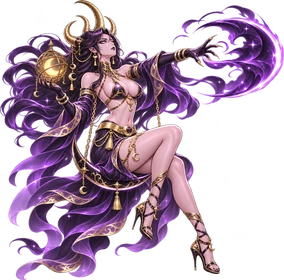
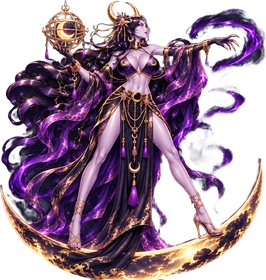
두억시니: 원본 달빛 극화체 교체, 각성 「검은 달 쌍고리」
Claude-Session: https://claude.ai/code/session_01X3WCR5Skc58i6ujNZho15h

diff --git a/game/geumeum/dokkaebi-shooter.html b/game/geumeum/dokkaebi-shooter.html
@@ -879,7 +879,7 @@ const FONT = '"Black Han Sans","Apple SD Gothic Neo","Malgun Gothic",sans-serif'
 const IMG = {};
 for (const n of ['hp0', 'hp1', 'hp2n', 'hp2s', 'hc2n', 'hc2s', 'mh0', 'mh1', 'mh2', 'mh3', 'mh4', 'mh5', 'mh6', 'mh7', 'mh8', 'mh9', 'mw_wisp', 'mw_kite', 'mw_drum', 'mw_jar', 'mw_lantern', 'mw_dasher', 'mw_carp', 'mw_fox', 'f3_wisp', 'f3_kite', 'f3_dasher', 'f4_wisp', 'f4_kite', 'f4_dasher', 'f5_wisp', 'f5_kite', 'f5_dasher', 'f6_wisp', 'f6_kite', 'f6_dasher', 'f7_wisp', 'f7_kite', 'f7_dasher', 'f8_wisp', 'f8_kite', 'f8_dasher', 'f9_wisp', 'f9_kite', 'f9_dasher', 'wisp', 'kite', 'drum', 'jar', 'lantern', 'dasher', 'bz0c', 'bz0d', 'bz1a', 'bz8b', 'fg0', 'mini0a', 'mini0b', 'mini0c', 'mid0a', 'mid0b', 'p3', 'cut3x', 'p4', 'cut4x', 'carp', 'mini1a', 'mini1b', 'mini1c', 'mid1a', 'mid1b', 'bz1b', 'fg1', 'ironfx', 'p5', 'cut5x', 'fox', 'mini2a', 'mini2c', 'mid2a', 'boss3', 'bz2b', 'fg3', 'ch3', 'ch5', 'ch6', 'ch7', 'ch8', 'ch9', 'ch10', 'ch11', 'ch12', 'p6','cut6x','p7b','cut7x','p8b','cut8x','p9b','cut9x','p10','cut10x','p11b','cut11x','p12','cut12x','zk3','mini3a','mini3b','mini3c','mid3a','mid3b','bossH3','bz3b','zk4','mini4a','mini4b','mini4c','mid4a','mid4b','bossH4','bz4b','zk5','mini5a','mini5b','mini5c','mid5a','mid5b','bossH5','bz5b','zk6','mini6a','mini6b','mini6c','mid6a','mid6b','bossH6','bz6b','zk7','mini7a','mini7b','mini7c','mid7a','mid7b','bossH7','bz7b','zk8','mini8a','mini8b','mini8c','mid8a','mid8b','bossH8','zk9','mini9a','mini9b','mini9c','mid9a','mid9b','bossH9','bz9b', 'hc0x', 'hp1_o0', 'hc1_o0', 'hc1w', 'forgeAnvil', 'forgeHammer', 'chestC', 'chestG', 'chestE', 'tornado', 'arrowfx', 'hammerfx', 'talisman']) { const im = new Image(); im.src = 'assets/' + n + '.webp'; IMG[n] = im; }
 { const im = new Image(); im.src = 'assets/ch12m.webp'; IMG.ch12 = im; }
-for (const n of ['p13', 'p14', 'p15', 'p16', 'p17', 'p18', 'p19', 'p20', 'p21', 'p22', 'aw0p', 'aw1p', 'aw2p', 'aw1', 'aw2', 'aw5', 'aw5p', 'aw6', 'aw6p', 'aw7', 'aw7p', 'aw12', 'aw12p', 'aw14', 'aw14p', 'aw15', 'aw15p', 'aw17', 'aw17p', 'aw18', 'aw18p', 'aw21', 'aw21p', 'aw13', 'aw13p', 'rp_book', 'aw16', 'aw16p', 'aw19', 'aw19p', 'aw20', 'aw20p', 'cy_m0', 'cy_m1', 'cy_m2', 'cy_m3', 'aw22', 'aw22p', 'aw3', 'aw3p', 'aw4', 'aw4p', 'aw8', 'aw8p', 'aw9', 'aw9p', 'aw10', 'aw10p', 'dl_sword']) { const im = new Image(); im.src = 'assets/' + n + '.webp'; IMG[n] = im; } // 기획 15·17 새 그림도 처음부터 불러 둠
+for (const n of ['p13', 'p14', 'p15', 'p16', 'p17', 'p18', 'p19', 'p20', 'p21', 'p22', 'aw0p', 'aw1p', 'aw2p', 'aw1', 'aw2', 'aw5', 'aw5p', 'aw6', 'aw6p', 'aw7', 'aw7p', 'aw12', 'aw12p', 'aw14', 'aw14p', 'aw15', 'aw15p', 'aw17', 'aw17p', 'aw18', 'aw18p', 'aw21', 'aw21p', 'aw13', 'aw13p', 'rp_book', 'aw16', 'aw16p', 'aw19', 'aw19p', 'aw20', 'aw20p', 'cy_m0', 'cy_m1', 'cy_m2', 'cy_m3', 'aw22', 'aw22p', 'aw3', 'aw3p', 'aw4', 'aw4p', 'aw8', 'aw8p', 'aw9', 'aw9p', 'aw10', 'aw10p', 'aw11', 'aw11p', 'dl_sword']) { const im = new Image(); im.src = 'assets/' + n + '.webp'; IMG[n] = im; } // 기획 15·17 새 그림도 처음부터 불러 둠
 { const im = new Image(); im.src = 'assets/tower10.webp'; IMG.tower10 = im; } // 층 시작 때 보여 주는 탑 그림 // 여왕의 기: 달 구슬(새 그림)
 for (const n of ['bg0', 'bg1', 'bg2', 'bg3', 'bgS4', 'bgS5', 'bgS6', 'bgS7', 'bgS8', 'bgS10', 'bg0h', 'bg1h', 'bg2h', 'bg3h', 'bgS4h', 'bgS5h', 'bgS6h', 'bgS7h', 'bgS8h', 'bgS10h']) { const im = new Image(); im.src = 'assets/' + n + '.jpg'; IMG[n] = im; }
 const ok = im => im && im.complete && im.naturalWidth > 0;
@@ -3428,7 +3428,7 @@ function drawElite() { for (const e of enemies) { if (!e.elite || e.dead || e.x 
   else { $('btnHome').textContent = '돌아가기'; if (p === 2 && !G.endless && G.floor.st.length === 3) { const sum = G.floor.st.reduce((x, y) => x + (y || 0), 0); $('resName').textContent = (G.stage + 1) + '층 돌파' + (G.diff ? ' ' + DN[G.diff] : ''); $('resText').innerHTML = '이번 층 별 <b>' + sum + ' / 9</b> · 이번 층 골드 <b class="gold">+' + G.floor.gold.toLocaleString() + '</b> · 가진 골드 <b class="gold">' + SAVE.gold.toLocaleString() + '</b>'; } } }; }
 $('btnRestYk').addEventListener('click', () => openYk());
 /* ---------- 기획 16-4: 각성 연출 — 멈춤 → 각성 일러스트 전신 → 얼굴·무기 쪽으로 천천히 확대 → 대사 띠 → 각성 8초 ---------- */
-const AWK = { dur: 1.2, dark: 0.15, inT: 0.2, zoom: 1.0, zoomCh: {}, /* 기획 17: 확대 없앰, 화면 가득 1.2초 */ img: { 0: 'aw0', 1: 'aw1', 2: 'aw2', 3: 'aw3', 4: 'aw4', 5: 'aw5', 6: 'aw6', 7: 'aw7', 8: 'aw8', 9: 'aw9', 10: 'aw10', 12: 'aw12', 13: 'aw13', 14: 'aw14', 15: 'aw15', 16: 'aw16', 17: 'aw17', 18: 'aw18', 19: 'aw19', 20: 'aw20', 21: 'aw21', 22: 'aw22' },
+const AWK = { dur: 1.2, dark: 0.15, inT: 0.2, zoom: 1.0, zoomCh: {}, /* 기획 17: 확대 없앰, 화면 가득 1.2초 */ img: { 0: 'aw0', 1: 'aw1', 2: 'aw2', 3: 'aw3', 4: 'aw4', 5: 'aw5', 6: 'aw6', 7: 'aw7', 8: 'aw8', 9: 'aw9', 10: 'aw10', 11: 'aw11', 12: 'aw12', 13: 'aw13', 14: 'aw14', 15: 'aw15', 16: 'aw16', 17: 'aw17', 18: 'aw18', 19: 'aw19', 20: 'aw20', 21: 'aw21', 22: 'aw22' },
   focus: { 0: [0.62, 0.18], 1: [0.76, 0.24], 2: [0.62, 0.13] }, // 확대 중심(그림 비율): 얼굴과 무기·손의 빛 사이. 15세 기준 — 몸 쪽으로는 확대하지 않음
   line: ['바람아, 달빛을 실어 와라!', '활은 접어 둘게. 이제 베러 간다!', '은하수의 창이여, 깨어나라!', '탈 속 도깨비불이 춤춘다!', '쇠도 먹고 달도 먹는다!', '아홉 꼬리에 달빛이 깃든다!', '장승의 이름으로 막아 서라!', '눈보라야, 모두 얼어붙어라!', '천 년 묵은 비늘이 깨어난다!', '용궁의 물결이여, 일어나라!', '쇠망치에 달을 벼린다!', '어둠이 나의 그림자다!', '뚝딱! 달빛이 쏟아진다!'] };
 for (const k of Object.values(AWK.img)) needImg(k);
@@ -3592,7 +3592,7 @@ function drawBossCut() { const b = G.boss; const U = b && b.ult; if (U && U.t < 
 { const a = drawWpFx; drawWpFx = function () { drawBsk17(); a(); }; }
 { const a = offerHero; offerHero = function () { const r = a(); if (r) { const L = BOSSK[G.stage]; if (L) $('offerText').textContent += ' — 이제 「' + L.slice(0, 3).map(x => x[1]).join('·') + '」는 내 것!'; } return r; }; }
 /* ---------- 기획 17-1·2: 각성 모습·움직임(잔상 3겹·달빛 고리·색 덧칠·꼬리) + 각성 전용 기본 공격·각성판 스킬 + 끝날 때 0.4초 ---------- */
-const AWK2 = { spr: { 0: 'aw0p', 1: 'aw1p', 2: 'aw2p', 3: 'aw3p', 4: 'aw4p', 5: 'aw5p', 6: 'aw6p', 7: 'aw7p', 8: 'aw8p', 9: 'aw9p', 10: 'aw10p', 12: 'aw12p', 13: 'aw13p', 14: 'aw14p', 15: 'aw15p', 16: 'aw16p', 17: 'aw17p', 18: 'aw18p', 19: 'aw19p', 20: 'aw20p', 21: 'aw21p', 22: 'aw22p' }, col: ['#9fffe0', '#ffd76a', '#cfe8ff'], trail: [5, 10, 15], endSec: 0.4, shotK: 1.3, skOff: [-28, 28], skK: 0.75 }; // spr: 각성 게임 캐릭터 그림(들어오면 { 0: 'aw0p', ... })
+const AWK2 = { spr: { 0: 'aw0p', 1: 'aw1p', 2: 'aw2p', 3: 'aw3p', 4: 'aw4p', 5: 'aw5p', 6: 'aw6p', 7: 'aw7p', 8: 'aw8p', 9: 'aw9p', 10: 'aw10p', 11: 'aw11p', 12: 'aw12p', 13: 'aw13p', 14: 'aw14p', 15: 'aw15p', 16: 'aw16p', 17: 'aw17p', 18: 'aw18p', 19: 'aw19p', 20: 'aw20p', 21: 'aw21p', 22: 'aw22p' }, col: ['#9fffe0', '#ffd76a', '#cfe8ff'], trail: [5, 10, 15], endSec: 0.4, shotK: 1.3, skOff: [-28, 28], skK: 0.75 }; // spr: 각성 게임 캐릭터 그림(들어오면 { 0: 'aw0p', ... })
 for (const k of Object.values(AWK2.spr)) needImg(k);
 const awCol = ch => AWK2.col[ch] || CH[ch].spark || CH[ch].robe;
 function drawAwakeP() { const ch = P.ch, sc = FUN2.awakeScale, img = (AWK2.spr[ch] && ok(IMG[AWK2.spr[ch]])) ? AWK2.spr[ch] : look(ch).img, h0 = CH[ch].h * SZ.p * sc, imw = IMG[img], h = ok(imw) && imw.naturalWidth > imw.naturalHeight * 1.05 ? h0 * 1.05 * imw.naturalHeight / imw.naturalWidth : h0, col = awCol(ch), L = G.awTrail || []; // 가로로 긴 그림은 폭 기준으로 줄여 다른 캐릭터와 크기를 맞춤
@@ -3734,7 +3734,7 @@ function dlMark(e) { const D = G.dl; if (!D) return; if (e.st) delete e.st.mark;
 function dlEnd() { const D = G.dl; if (!D) return; const y = P.y; D.sw = []; fx2({ k: 'hline', y, d: 0.45, col: '#ff3a5a' }); G.shake = 0.5; G.flash = Math.max(G.flash, 0.3); banner('…다시, 활로.', '', 1);
   withSrc('awk', () => { for (const e of inFront(P.x, W + 20, y, 40)) hitEl(e, AWK_DL.finalArrow, 'mark', { pen: 1 }); for (const e of enemies) if (!e.dead && e.st && e.st.mark > 0) dlMark(e); }); tone(392, 0.4, 'triangle', 0.08, 200); }
 // 그리기: 칼바람(진홍 반달), 칼 회전, 돌진 잔상, 갈라지는 0.3초, 벨 때 앞으로 튀어나감
-{ const a = drawShot; drawShot = function (s) { if (s.snw) return drawSnw(s); if (s.jsw) return drawJsw(s); if (s.qcw) return drawQcw(s); if (s.bpw) return drawBpw(s); if (s.htw) return drawHtw(s); if (s.ubw) return drawUbw(s); if (s.upw) return drawUpw(s); if (s.jxw) return drawJxw(s); if (s.mpw) return drawMpw(s); if (s.ssw) return drawSsw(s); if (s.hbw) return drawHbw(s); if (s.rpw) return drawRpw(s); if (s.hgw) return drawHgw(s); if (s.sgw) return drawSgw(s); if (s.cyw) return drawCyw(s); if (s.krw) return drawKrw(s); if (s.tdw) return drawTdw(s); if (s.bgw) return drawBgw(s); if (s.imw) return drawImw(s); if (s.ywm) return drawYwm(s); if (s.sdw) return drawSdw(s); if (!s.dlw) return a(s); ctx.save(); ctx.translate(s.x, s.y); ctx.rotate(Math.atan2(s.vy, s.vx)); ctx.globalCompositeOperation = 'lighter'; ctx.strokeStyle = 'rgba(255,60,90,.9)'; ctx.lineWidth = 5; ctx.beginPath(); ctx.arc(-8, 0, 18, -1.2, 1.2); ctx.stroke(); ctx.strokeStyle = 'rgba(255,200,210,.9)'; ctx.lineWidth = 2; ctx.beginPath(); ctx.arc(-6, 0, 17, -1.0, 1.0); ctx.stroke(); ctx.restore(); }; }
+{ const a = drawShot; drawShot = function (s) { if (s.snw) return drawSnw(s); if (s.jsw) return drawJsw(s); if (s.qcw) return drawQcw(s); if (s.bpw) return drawBpw(s); if (s.htw) return drawHtw(s); if (s.ubw) return drawUbw(s); if (s.upw) return drawUpw(s); if (s.jxw) return drawJxw(s); if (s.mpw) return drawMpw(s); if (s.ssw) return drawSsw(s); if (s.hbw) return drawHbw(s); if (s.rpw) return drawRpw(s); if (s.hgw) return drawHgw(s); if (s.sgw) return drawSgw(s); if (s.cyw) return drawCyw(s); if (s.krw) return drawKrw(s); if (s.tdw) return drawTdw(s); if (s.bgw) return drawBgw(s); if (s.imw) return drawImw(s); if (s.ywm) return drawYwm(s); if (s.sdw) return drawSdw(s); if (s.dkw) return drawDkw(s); if (!s.dlw) return a(s); ctx.save(); ctx.translate(s.x, s.y); ctx.rotate(Math.atan2(s.vy, s.vx)); ctx.globalCompositeOperation = 'lighter'; ctx.strokeStyle = 'rgba(255,60,90,.9)'; ctx.lineWidth = 5; ctx.beginPath(); ctx.arc(-8, 0, 18, -1.2, 1.2); ctx.stroke(); ctx.strokeStyle = 'rgba(255,200,210,.9)'; ctx.lineWidth = 2; ctx.beginPath(); ctx.arc(-6, 0, 17, -1.0, 1.0); ctx.stroke(); ctx.restore(); }; }
 function drawDl() { const D = G.dl; if (!D || G.mode !== 'play') return; const im = IMG.dl_sword;
   for (const s of D.sw) { ctx.save(); ctx.translate(s.x, s.y); ctx.rotate(s.a); ctx.globalCompositeOperation = 'lighter'; glow('red', 0, 0, 30, 0.5); ctx.globalCompositeOperation = 'source-over'; if (ok(im)) ctx.drawImage(im, -36, -11.5, 72, 23); ctx.restore(); }
   const ds = D.dash; if (ds) { const tr = ds.trail; for (let i = 0; i < 3; i++) { const q = tr[Math.floor(tr.length * (i + 1) / 4)]; if (q) spr(AWK2.spr[1], q.x, q.y, CH[1].h * SZ.p * FUN2.awakeScale, { add: 1, alpha: 0.25 }); } if (!ds.scar && ds.t > AWK_DL.dashTime) { ctx.save(); ctx.strokeStyle = 'rgba(255,40,70,.8)'; ctx.lineWidth = 3; ctx.beginPath(); ctx.moveTo(ds.x0, ds.y - 10); ctx.lineTo(W, ds.y + 10); ctx.moveTo(ds.x0, ds.y + 10); ctx.lineTo(W, ds.y - 10); ctx.stroke(); ctx.restore(); } }
@@ -4290,6 +4290,30 @@ function drawSd() { const M = G.sd; if (!M || G.mode !== 'play') return; ctx.sav
   if (M.split > 0 && M.split < 0.3) { const k = 1 - M.split / 0.3; glow('fire', P.x + 20, P.y, 20 + 60 * k, 1 - k); }
   ctx.restore(); }
 { const a = drawWpFx; drawWpFx = function () { a(); drawSd(); }; }
+/* ---------- 두억시니 각성 「검은 달 쌍고리」 (기획 20 두억시니 행, 무기 낫→쌍고리로 변경) — 앞 고리칼에서 검은 초승달 관통(묶음)·가까운 탄 지움·어둠 걷기 돌진·끝 화면 어두워지며 그림자 베기 ---------- */
+const AWK_DK = { tip: [55, -48], gap: 0.3, sp: 580, dmg: 2.8, bindT: 0.4, eatR: 52, dashTime: 0.3, dashBack: 0.3, dashR: 44, dashDmg: 12, endN: 6, endDmg: 18, col: '#b070ff' };
+const dkOn = () => G.awake > 0 && P.ch === 11 && G.mode === 'play';
+{ const a = fire; fire = function () { const n0 = shots.length; a(); if (dkOn()) shots.splice(n0); }; }
+function drawDkw(s) { ctx.save(); ctx.translate(s.x, s.y); ctx.rotate(Math.atan2(s.vy, s.vx)); ctx.globalCompositeOperation = 'lighter'; glow('purple', 0, 0, 18, 0.6); ctx.globalCompositeOperation = 'source-over'; ctx.fillStyle = '#1a0f24'; ctx.beginPath(); ctx.arc(0, 0, 16, -1.4, 1.4); ctx.arc(-7, 0, 13, 1.3, -1.3, true); ctx.fill(); ctx.strokeStyle = 'rgba(190,120,255,.95)'; ctx.lineWidth = 1.5; ctx.beginPath(); ctx.arc(0, 0, 16, -1.4, 1.4); ctx.stroke(); ctx.restore(); }
+function dkUpd(dt) { const M = G.dk = G.dk || { cd: 0, eat: 0, fx: [] }; if (M.split > 0) M.split -= dt; M.eat = Math.max(0, M.eat - dt); for (const f of M.fx) f.t += dt; M.fx = M.fx.filter(f => f.t < f.T);
+  const ds = M.dash; if (ds) { ds.t += dt; if (ds.t < AWK_DK.dashTime) { P.x = ds.x0 + (W - 60 - ds.x0) * (ds.t / AWK_DK.dashTime); P.inv = Math.max(P.inv, 0.25); ds.trail.push({ x: P.x, y: P.y }); bullets = bullets.filter(b => Math.hypot(b.x - P.x, b.y - P.y) > AWK_DK.dashR + 10); withSrc('sk', () => { for (const e of enemies) if (!e.dead && !ds.hit.has(e) && Math.hypot(e.x - P.x, e.y - P.y) < AWK_DK.dashR + e.r * 0.6) { ds.hit.set(e, 1); hitEl(e, AWK_DK.dashDmg, 'bind', { heavy: 1 }); } }); }
+    else if (ds.t < AWK_DK.dashTime + AWK_DK.dashBack) { P.x = W - 60 + (ds.x0 - (W - 60)) * ((ds.t - AWK_DK.dashTime) / AWK_DK.dashBack); P.inv = Math.max(P.inv, 0.2); } else { P.x = ds.x0; M.dash = null; } if (ds.trail.length > 12) ds.trail.shift(); }
+  if (M.end) { M.end.t += dt; if (M.end.t >= 0.5 && !M.end.cut) { M.end.cut = 1; withSrc('awk', () => { for (const e of enemies) if (!e.dead && e.x < W + 10) hitEl(e, AWK_DK.endDmg, null, { heavy: 1 }); }); G.shake = 0.5; tone(1300, 0.4, 'sawtooth', 0.06, -1000); } if (M.end.t > 1.3) M.end = null; }
+  if (!dkOn()) return; const firing = keys.fire || touch.down || touch.auto, tx = P.x + AWK_DK.tip[0], ty = P.y + AWK_DK.tip[1];
+  let n = 0; bullets = bullets.filter(b => { if (Math.hypot(b.x - P.x, b.y - P.y) < AWK_DK.eatR) { n++; return false; } return true; }); if (n) M.eat = 0.25;
+  if (firing && (M.cd -= dt) <= 0) { M.cd = AWK_DK.gap; withSrc('awk', () => ps(tx, ty, AWK_DK.sp, 0, 14, AWK_DK.dmg, 20, { kc: 11, dkw: 1, el: 'bind', pierce: 1, cd: 0.3, hit: new Map() })); } }
+{ const a = charSkill; charSkill = function (ch) { if (!(ch === 11 && dkOn())) return a(ch); if (G.dk.dash) return; G.dk.dash = { t: 0, x0: P.x, trail: [], hit: new Map() }; float('어둠 걷기!', P.x, P.y - 50, AWK_DK.col); tone(200, 0.3, 'sawtooth', 0.06, -100); }; }
+{ const a = awakeStart; awakeStart = function () { const was = G.awake > 0; a(); if (!was && G.awake > 0 && P.ch === 11) G.dk = { cd: 0, eat: 0, fx: [], split: AWK.dur + 0.3 }; }; }
+{ const a = awakeUpd; awakeUpd = function (dt) { const was = G.awake > 0 && P.ch === 11; a(dt); if (G.mode === 'play') dkUpd(dt); if (was && !(G.awake > 0)) dkEnd(); }; }
+function dkEnd() { const M = G.dk = G.dk || { fx: [] }; if (M.dash) { P.x = M.dash.x0; M.dash = null; } const lines = []; for (let i = 0; i < AWK_DK.endN; i++) lines.push({ y: 40 + i * (GY - 80) / (AWK_DK.endN - 1), s: (i % 2 ? 1 : -1) * 0.25 }); M.end = { t: 0, lines }; banner('그림자여, 모두 베어라!', '', 1); tone(60, 0.6, 'sine', 0.08, 20); }
+function drawDk() { const M = G.dk; if (!M || G.mode !== 'play') return; ctx.save();
+  if (M.end) { const q = M.end.t, dark = q < 0.5 ? q * 1.4 : Math.max(0, 0.7 - (q - 0.5) * 1.2); ctx.fillStyle = 'rgba(10,0,20,' + dark + ')'; ctx.fillRect(0, 0, W, H); if (M.end.cut) { const k = Math.min(1, (q - 0.5) / 0.4); ctx.globalCompositeOperation = 'lighter'; ctx.strokeStyle = 'rgba(200,140,255,' + (1 - k) + ')'; ctx.lineWidth = 4 * (1 - k) + 1; for (const L of M.end.lines) { ctx.beginPath(); ctx.moveTo(0, L.y - L.s * W / 2); ctx.lineTo(W * Math.min(1, k * 3), L.y - L.s * W / 2 + L.s * W * Math.min(1, k * 3)); ctx.stroke(); } ctx.globalCompositeOperation = 'source-over'; } }
+  ctx.globalCompositeOperation = 'lighter';
+  if (M.eat > 0) glow('purple', P.x, P.y, AWK_DK.eatR, M.eat * 2);
+  if (M.dash) { const ds = M.dash; ds.trail.forEach((p, i) => glow('purple', p.x, p.y, 18 + i * 2, (i + 1) / ds.trail.length * 0.5)); }
+  if (M.split > 0 && M.split < 0.3) { const k = 1 - M.split / 0.3; glow('purple', P.x + 20, P.y, 20 + 60 * k, 1 - k); }
+  ctx.restore(); }
+{ const a = drawWpFx; drawWpFx = function () { a(); drawDk(); }; }
 /* ---------- 그믐의 맹세 (기획 8의 3): 스스로 고르는 어려움. 일반 층과 그믐의 탑 모두에 걸린다. 첫 결말 뒤에 열린다 ---------- */
 const OATHS = [ // [id, 이름, 최대 단계, 단계당 점수, 효과]
   ['hp', '단단한 요괴', 3, 1, '적 체력 +20%씩'],

diff --git a/game/geumeum/README.md b/game/geumeum/README.md
@@ -414,3 +414,11 @@
 - ② 보조 벼림: 각성 중 모든 공격 피해 +20%(머리 위 표시).
 - ③ 스킬: 쌍망치 내려찍기 2연(앞쪽 위·아래, 탄 제거).
 - ④ 끝: 망치를 던져 큰 불꽃. 모루 로켓 불꽃은 그림에 있어 효과를 따로 붙이지 않음. 수치는 `AWK_SD`.
+
+### 두억시니 각성 「검은 달 쌍고리」 (캐릭터 11, 기획 20 두억시니 행, 무기 낫 → 쌍고리)
+- 원본 `p11b`·`cut11x` 달빛 극화체로 교체(금빛 초승달 위에 서서 혼천의). 각성 그림 `aw11`, 각성 몸 `aw11p`(쌍고리칼). 공격은 앞 고리칼 칼날(+55, -48)에서 나감. 몸 흔들기 없음. 각성 대사는 기존 「어둠이 나의 그림자다!」.
+- ① 자동: 검은 초승달 관통(묶음 속성).
+- ② 보조: 몸 가까이 온 적 탄을 지움.
+- ③ 스킬 어둠 걷기: 화면 끝까지 돌진했다 돌아옴(무적, 닿는 적 피해·탄 제거).
+- ④ 끝: 화면이 어두워진 뒤 그림자 베기 여섯 줄(화면 전체 피해). 수치는 `AWK_DK`.
+- 이로써 캐릭터 23명 모두 각성 그림과 각성 공격이 들어감.
